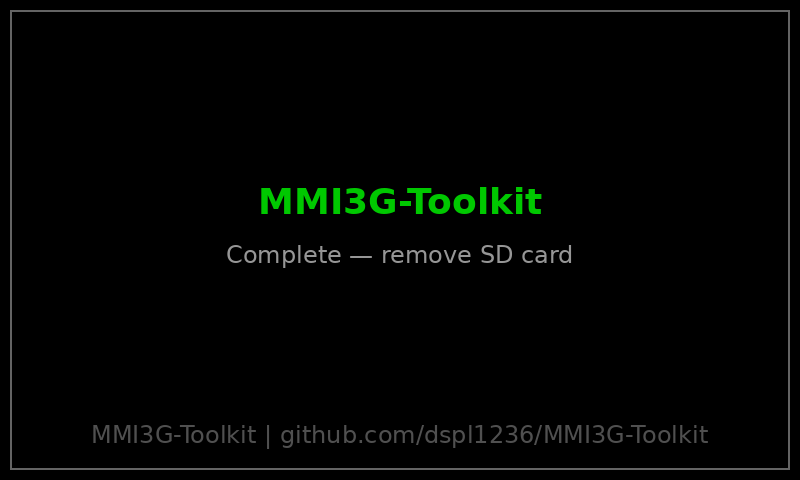
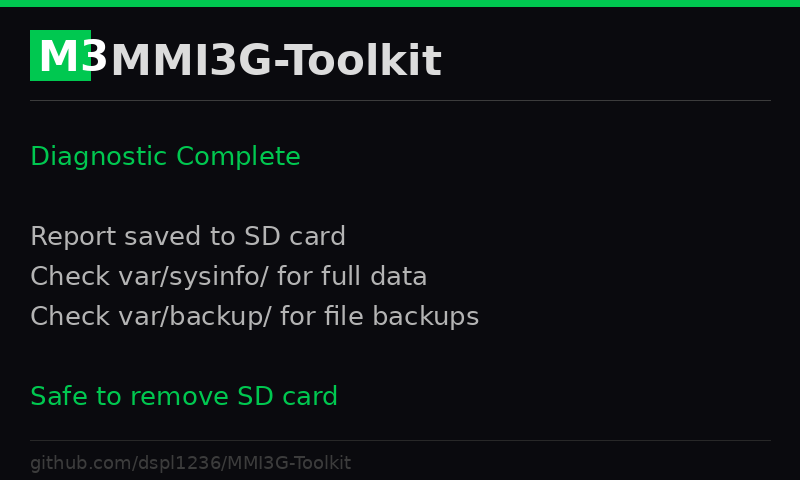
UI: System Info as 'Start Here' primary + showScreen status PNGs
Web app changes:
- System Info moved to top of module list with green 'START HERE' banner
- Full-width card spanning the grid, visually separated from other modules
- Pre-selected by default

Status screens (800x480 branded PNGs):
- running.png — 'Loading Diagnostics' with M3 branding
- done.png — 'Diagnostic Complete' with green accent
- gem_enabled.png — 'GEM Activated' with reboot instructions
- gem_disabled.png — 'GEM Deactivated'

Web app bundles all PNGs in lib/ automatically.
showScreen displays them during SD card operations.

diff --git a/docs/app/index.html b/docs/app/index.html
@@ -60,6 +60,10 @@ class MMI3GCipher {
 
 const MANIFEST_URL = "./manifest.json";
 const MODULES_DISPLAY = [
+  { id: "system-info", name: "System Info", status: "ready",
+    desc: "Full diagnostic — identity, activations, credentials, storage, persistence backup. Single pass, no flash writes.",
+    compat: ["3G", "3G+", "RNS-850"], category: "diag", primary: true,
+    prereq: null, detail: "10-section report covering GEM state, nav/FSC activation, WiFi/BT credentials, VIN, storage, HBpersistence backup. QNX-safe (no head/tail). Consolidates system-info + password-finder + variant-dump." },
   { id: "gem-activator", name: "GEM Activator", status: "ready",
     desc: "Enable the Green Engineering Menu from SD card — creates /HBpersistence/DBGModeActive. No VCDS needed!",
     compat: ["3G", "3G+", "RNS-850"], category: "system",
@@ -76,10 +80,6 @@ const MODULES_DISPLAY = [
     desc: "Bypass navigation database activation check",
     compat: ["3G", "3G+", "RNS-850"], category: "nav",
     prereq: null, detail: "Patches manage_cd.sh to terminate vdev-logvolmgr. Persistent, reversed by firmware reinstall." },
-  { id: "system-info", name: "System Info", status: "ready",
-    desc: "Full diagnostic — identity, activations, credentials, storage, persistence backup. Single pass, no flash writes.",
-    compat: ["3G", "3G+", "RNS-850"], category: "diag",
-    prereq: null, detail: "10-section report covering GEM state, nav/FSC activation, WiFi/BT credentials, VIN, storage, HBpersistence backup. QNX-safe (no head/tail). Consolidates system-info + password-finder + variant-dump." },
   { id: "lte-setup", name: "LTE Setup", status: "ready",
     desc: "Provision USB Ethernet for LTE data after 3G sunset",
     compat: ["3G+", "RNS-850"], category: "net",
@@ -613,7 +613,22 @@ function App() {
           React.createElement("button", { onClick: selectNone, style: { padding: "4px 10px", borderRadius: 4, border: "1px solid #252528", background: "#111114", color: "#777", fontSize: 10, cursor: "pointer", fontFamily: "IBM Plex Mono" } }, "None")
         ),
         React.createElement("div", { style: { display: "grid", gridTemplateColumns: "repeat(auto-fill, minmax(280px, 1fr))", gap: 8 } },
-          MODULES_DISPLAY.map(m => {
+          // Primary modules (Start Here) rendered full-width at top
+          ...MODULES_DISPLAY.filter(m => m.primary).map(m => {
+            const isSel = selected.has(m.id);
+            return React.createElement("div", { key: m.id, onClick: () => toggle(m.id), style: { gridColumn: "1 / -1", padding: "14px 16px", borderRadius: 7, cursor: "pointer", border: isSel ? "1px solid #c41e3a" : "1px solid #2a4a2a", background: isSel ? "rgba(196,30,58,0.05)" : "rgba(0,80,30,0.08)", transition: "all 0.15s" } },
+              React.createElement("div", { style: { display: "flex", alignItems: "center", gap: 10 } },
+                React.createElement("div", { style: { width: 16, height: 16, borderRadius: 3, border: isSel ? "none" : "1px solid #4a4", background: isSel ? "#c41e3a" : "transparent", display: "flex", alignItems: "center", justifyContent: "center", fontSize: 11, color: "#fff", fontWeight: 700, flexShrink: 0 } }, isSel ? "\u2713" : ""),
+                React.createElement("div", { style: { flex: 1 } },
+                  React.createElement("div", { style: { fontSize: 14, fontWeight: 700, color: "#4a4", display: "flex", alignItems: "center", gap: 6 } },
+                    "\u25B6 START HERE \u2014 ", m.name),
+                  React.createElement("div", { style: { fontSize: 11, color: "#888", marginTop: 2 } }, m.desc)
+                )
+              )
+            );
+          }),
+          // Regular modules in grid
+          ...MODULES_DISPLAY.filter(m => !m.primary).map(m => {
             const isSel = selected.has(m.id);
             const isExp = expandedMod === m.id;
             return React.createElement("div", { key: m.id, onClick: () => toggle(m.id), style: { padding: "11px 12px", borderRadius: 7, cursor: "pointer", border: isSel ? "1px solid #c41e3a" : "1px solid #1e1e22", background: isSel ? "rgba(196,30,58,0.05)" : "#111114", transition: "all 0.15s" } },
